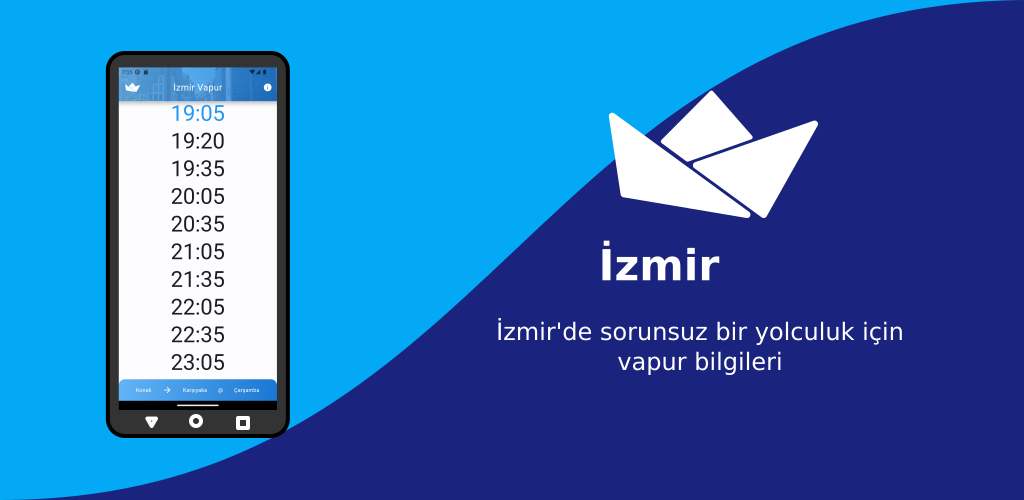
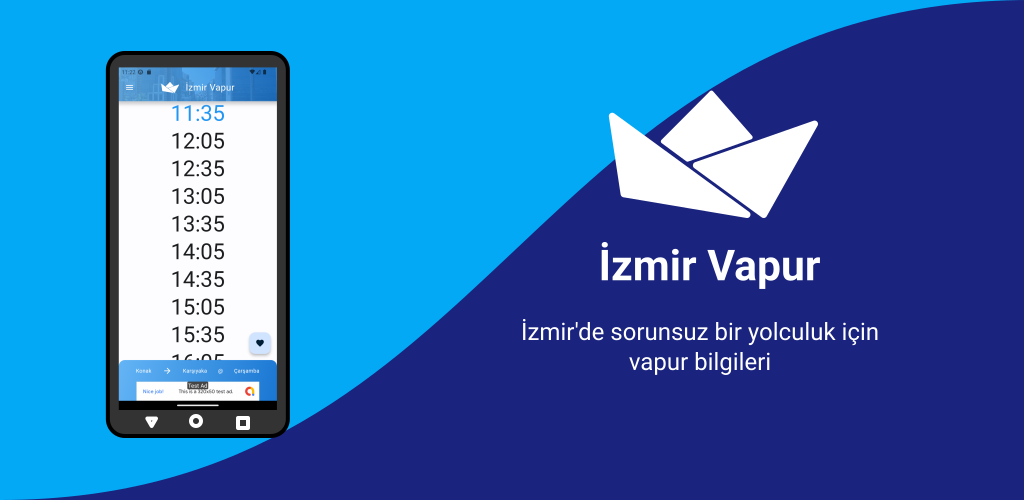
update screenshots and feature graphic

diff --git a/README.md b/README.md
@@ -27,7 +27,11 @@ The app is available on Google Play to internal testers for now. To become an in
 <img src="assets/brand/ph-2.png" width="256" />
 <img src="assets/brand/ph-3.png" width="256" />
 <img src="assets/brand/ph-4.png" width="256" />
+<img src="assets/brand/ph-5.png" width="256" />
+<img src="assets/brand/ph-6.png" width="256" />
 <img src="assets/brand/tb-1.png" width="512" />
 <img src="assets/brand/tb-2.png" width="512" />
 <img src="assets/brand/tb-3.png" width="512" />
 <img src="assets/brand/tb-4.png" width="512" />
+<img src="assets/brand/tb-5.png" width="512" />
+<img src="assets/brand/tb-6.png" width="512" />
